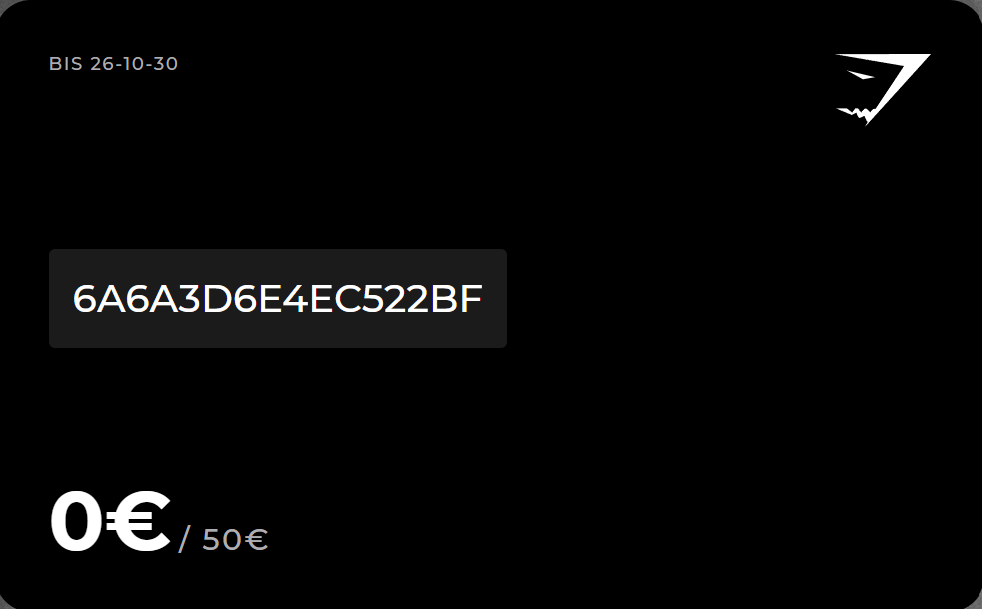
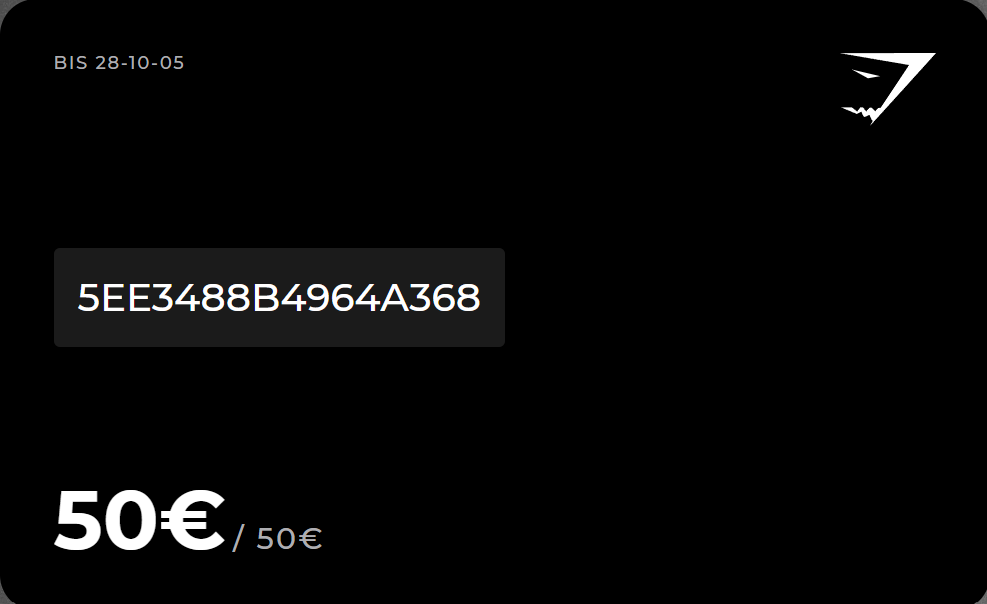
Real gift card + link

diff --git a/gift.html b/gift.html
@@ -29,9 +29,7 @@
         <header>
             <h1>Happy Birthday, Soundous! 🍂🎈</h1>
             <p class="hero-intro">
-                Your goofy-autumn crew pooled all their love (and a suspicious amount of
-                glitter) to bring you this little surprise. Tap the present to reveal the
-                big ta-da!
+                Tap the present to reveal the gift!
             </p>
         </header>
 
@@ -44,7 +42,10 @@
                 </button>
 
                 <div class="gift-card-frame" id="gift-card-frame">
-                    <img id="gift-card" src="images/gift-card.png" alt="Surprise gift card" loading="lazy" />
+                    <a target="_blank"
+                        href="https://de.checkout.gymshark.com/gift_cards/16936215/3e9473a1786b5ad9a3275b18ac19c0bd?utm_source=shopify&utm_medium=transaction-email&utm_campaign=gift-card">
+                        <img id="gift-card" src="images/gift-card.png" alt="Surprise gift card" loading="lazy" />
+                    </a>
                 </div>
             </div>
         </section>
